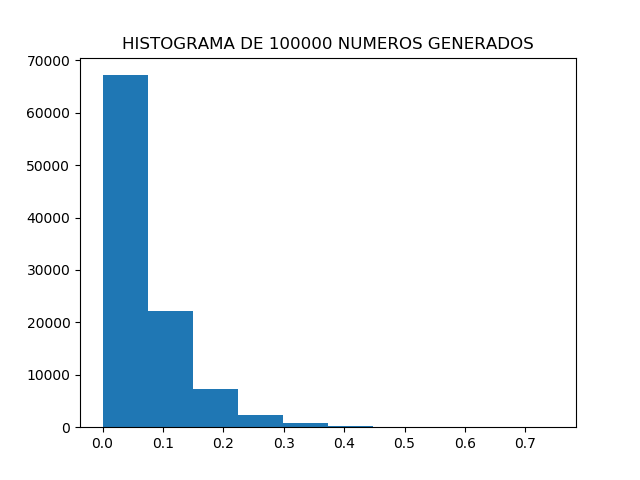
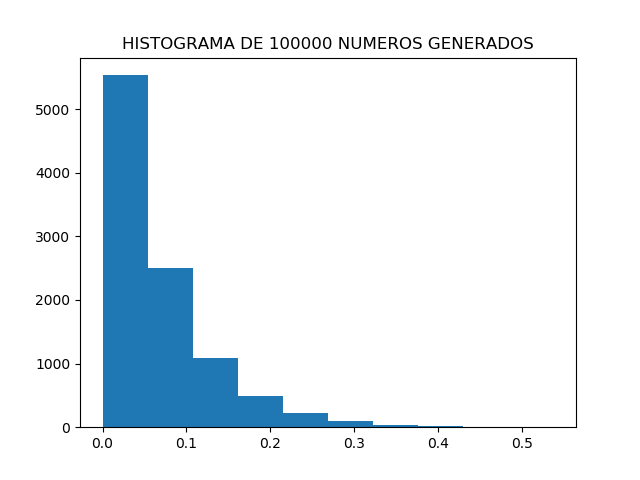
agrego varianza moda y media al ejercicio 2

diff --git a/tp1/ejercicio2.py b/tp1/ejercicio2.py
@@ -1,6 +1,7 @@
 import util.generador as generador
 import matplotlib.pyplot as plt
 import math
+import operator
 
 class Generator:
 	def __init__(self):
@@ -18,22 +19,56 @@ def generate_histogram(num_list, title, path):
 class Exponential_distribution:
 	def __init__(self, lamda):
 		self.lamda = lamda
+
 	def generate(self,u):
 		if(u > 1):
 			raise ValueError('u must be less than 1.')
-		x = math.log(1-u)/self.lamda
+		x = -math.log(1-u)/self.lamda
 		return x
+
 	def generate_list(self, n):
 		generator = Generator()
 		l = generator.generate_list(n)
 		for i in range(n):
 			l[i] = self.generate(l[i])
 		return l
+	def get_media(self):
+		return 1.0/self.lamda
+	def get_variance(self):
+		return 1.0/(self.lamda**2)
+
+
+def get_media(l):
+	return (sum(l)/len(l))
+
+def get_modas(l):
+	frecuencias = {}
+	for i in l:
+		if(i in frecuencias.keys()):
+			continue
+		frecuencias[i] = l.count(i)
+	return max(frecuencias.iteritems(), key=operator.itemgetter(1))[0]
+
+
+def get_variance(l):
+	average = get_media(l); 	
+	variance = 0
+	for i in l:
+		variance += (average - i) ** 2
+	return (variance/len(l))
 
 print("######################################################")
 print("EJERCICIO 2")
 print("######################################################")
 print("\n")
-exp = Exponential_distribution(-15)
-l = exp.generate_list(100000)
+exp = Exponential_distribution(15)
+l = exp.generate_list(10000)
 generate_histogram(l, "HISTOGRAMA DE 100000 NUMEROS GENERADOS",'./graficos/ejercicio2-histograma.png');
+
+print("La media teorica de una v.A exponencial es: %f" %(exp.get_media()))
+print("La media es: %f" %(get_media(l)) )
+print("La varianza teorica de una v.A exponencial es: %f" %(exp.get_variance()))
+print("La varianza experimental es: %f" %(get_variance(l)))
+print("La moda es: %f" %(get_modas(l)))
+
+
